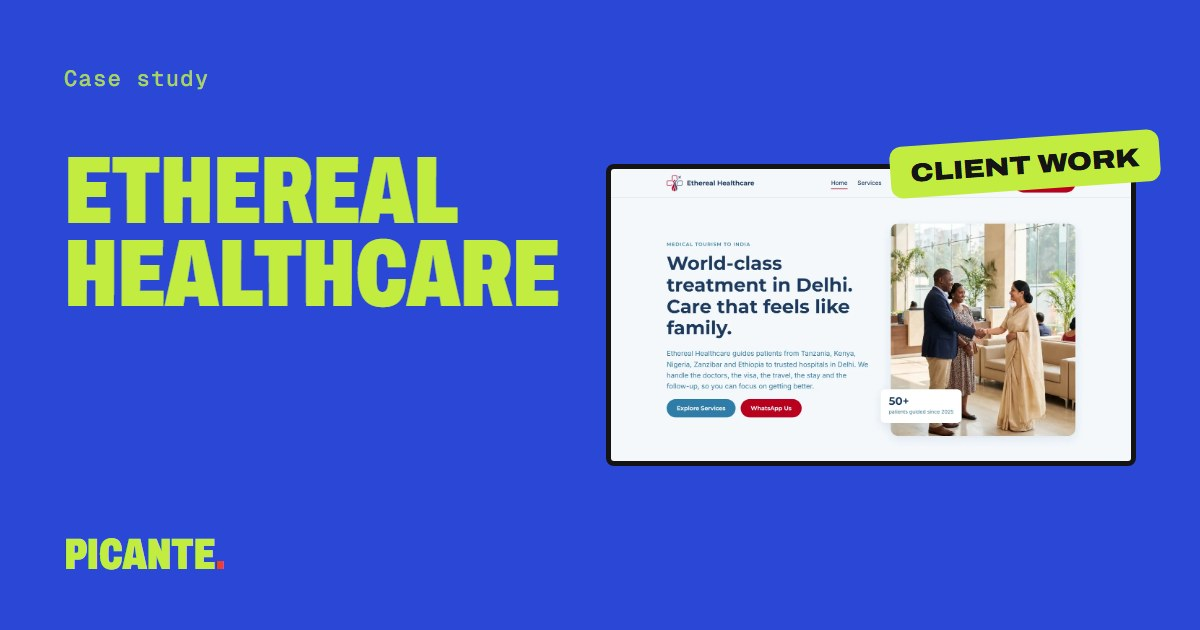
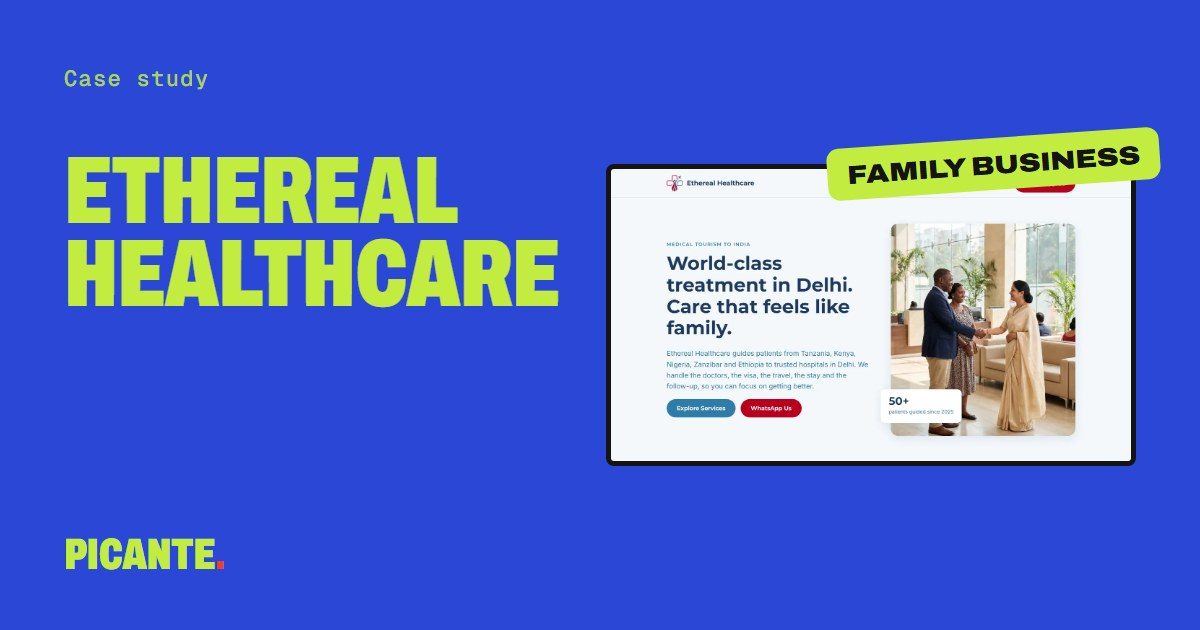
Ethereal Healthcare labelled as a family business, not client work

Changed region(s): [[0.6783, 0.181, 0.9867, 0.3317]]

diff --git a/work/ethereal-healthcare.html b/work/ethereal-healthcare.html
@@ -3,21 +3,21 @@
 <head>
 <meta charset="utf-8">
 <meta name="viewport" content="width=device-width, initial-scale=1">
-<title>Ethereal Healthcare case study: website designed, built and hosted | Picante Studio</title>
+<title>Ethereal Healthcare: website designed, built and hosted | Picante Studio</title>
 <meta name="description" content="How Picante Studio designed, built and hosted the Ethereal Healthcare website: a trust-first, mobile-first site for a Delhi NCR medical-travel company, built to earn one WhatsApp message.">
-<meta property="og:title" content="Ethereal Healthcare case study: website designed, built and hosted | Picante Studio">
+<meta property="og:title" content="Ethereal Healthcare: website designed, built and hosted | Picante Studio">
 <meta property="og:description" content="How Picante Studio designed, built and hosted the Ethereal Healthcare website: a trust-first, mobile-first site for a Delhi NCR medical-travel company, built to earn one WhatsApp message.">
 <meta property="og:type" content="website">
 <meta property="og:site_name" content="Picante Studio">
 <meta property="og:image" content="https://thepicantestudio.com/assets/img/cases/og_ethereal-healthcare.jpg">
 <meta property="og:url" content="https://thepicantestudio.com/work/ethereal-healthcare">
 <meta name="twitter:card" content="summary_large_image">
-<meta name="twitter:title" content="Ethereal Healthcare case study: website designed, built and hosted | Picante Studio">
+<meta name="twitter:title" content="Ethereal Healthcare: website designed, built and hosted | Picante Studio">
 <meta name="twitter:description" content="How Picante Studio designed, built and hosted the Ethereal Healthcare website: a trust-first, mobile-first site for a Delhi NCR medical-travel company, built to earn one WhatsApp message.">
 <meta name="twitter:image" content="https://thepicantestudio.com/assets/img/cases/og_ethereal-healthcare.jpg">
 <meta name="theme-color" content="#2A47D6">
 <link rel="canonical" href="https://thepicantestudio.com/work/ethereal-healthcare">
-<script type="application/ld+json">{"@context": "https://schema.org", "@graph": [{"@type": "BreadcrumbList", "itemListElement": [{"@type": "ListItem", "position": 1, "name": "Work", "item": "https://thepicantestudio.com/work"}, {"@type": "ListItem", "position": 2, "name": "Ethereal Healthcare", "item": "https://thepicantestudio.com/work/ethereal-healthcare"}]}, {"@type": "CreativeWork", "name": "Ethereal Healthcare", "headline": "Ethereal Healthcare case study: website designed, built and hosted | Picante Studio", "description": "How Picante Studio designed, built and hosted the Ethereal Healthcare website: a trust-first, mobile-first site for a Delhi NCR medical-travel company, built to earn one WhatsApp message.", "url": "https://thepicantestudio.com/work/ethereal-healthcare", "image": "https://thepicantestudio.com/assets/img/cases/og_ethereal-healthcare.jpg", "creator": {"@type": "Organization", "name": "Picante Studio", "url": "https://thepicantestudio.com/"}}]}</script>
+<script type="application/ld+json">{"@context": "https://schema.org", "@graph": [{"@type": "BreadcrumbList", "itemListElement": [{"@type": "ListItem", "position": 1, "name": "Work", "item": "https://thepicantestudio.com/work"}, {"@type": "ListItem", "position": 2, "name": "Ethereal Healthcare", "item": "https://thepicantestudio.com/work/ethereal-healthcare"}]}, {"@type": "CreativeWork", "name": "Ethereal Healthcare", "headline": "Ethereal Healthcare: website designed, built and hosted | Picante Studio", "description": "How Picante Studio designed, built and hosted the Ethereal Healthcare website: a trust-first, mobile-first site for a Delhi NCR medical-travel company, built to earn one WhatsApp message.", "url": "https://thepicantestudio.com/work/ethereal-healthcare", "image": "https://thepicantestudio.com/assets/img/cases/og_ethereal-healthcare.jpg", "creator": {"@type": "Organization", "name": "Picante Studio", "url": "https://thepicantestudio.com/"}}]}</script>
 <link rel="icon" href="/favicon.svg" type="image/svg+xml">
 <link rel="apple-touch-icon" href="/apple-touch-icon.png">
 <link rel="icon" type="image/png" sizes="512x512" href="/icon-512.png">
@@ -46,7 +46,7 @@
     <p class="mono crumbs"><a href="/work">Work</a> / Design / Ethereal Healthcare</p>
     <h1 class="display">Ethereal Healthcare</h1>
     <p class="case-line">A trust-first website for a medical-travel company, designed to turn a phone screen into a first WhatsApp message.</p>
-    <div class="case-tags"><span class="sticker sticker-lime">Client work</span></div>
+    <div class="case-tags"><span class="sticker sticker-lime">Family business</span></div>
   </div>
 </section>
 <section class="block block-ink case-film" data-ground="ink">
@@ -60,7 +60,7 @@
 <section class="block block-bone case-body" data-ground="bone">
   <div class="wrap">
     <dl class="facts facts-row">
-        <div><dt>Client</dt><dd>Ethereal Healthcare, Delhi NCR</dd></div>
+        <div><dt>For</dt><dd>Ethereal Healthcare, Delhi NCR, a family business</dd></div>
         <div><dt>Service</dt><dd>Design: website designed, built and hosted</dd></div>
         <div><dt>Delivered</dt><dd>Live multi-section site with a WhatsApp conversion path</dd></div>
         <div><dt>Live at</dt><dd><a href="https://www.etherealhealthcare.com/" target="_blank" rel="noopener">etherealhealthcare.com</a></dd></div>

diff --git a/work.html b/work.html
@@ -131,7 +131,7 @@
             <img src="assets/img/site_ethereal.webp" alt="Ethereal Healthcare homepage: a hero that reads World-class treatment in Delhi, with a WhatsApp call to action" width="1440" height="900" loading="lazy">
           </a>
           <h4>Ethereal Healthcare</h4>
-          <p>Patients decide from another continent, on a phone. So the whole site is built to earn one WhatsApp message.</p>
+          <p>Patients decide from another continent, on a phone. So the whole site is built to earn one WhatsApp message. Built for a family business.</p>
           <div class="textlink case-links"><a href="/work/ethereal-healthcare">Read the case study</a><a href="https://www.etherealhealthcare.com/" target="_blank" rel="noopener">Visit the site</a></div>
         </article>
       </div>
@@ -251,7 +251,7 @@
     <ul class="case-list">
       <li><a href="/work/qcstech"><span class="display">QCSTech</span><span class="mono">Client work, Create</span></a></li>
       <li><a href="/work/qed-vault"><span class="display">QED Vault</span><span class="mono">Client work, Create</span></a></li>
-      <li><a href="/work/ethereal-healthcare"><span class="display">Ethereal Healthcare</span><span class="mono">Client work, Design</span></a></li>
+      <li><a href="/work/ethereal-healthcare"><span class="display">Ethereal Healthcare</span><span class="mono">Family business, Design</span></a></li>
       <li><a href="/work/jimmys-cocktails"><span class="display">Jimmy's Cocktails</span><span class="mono">Concept, Create and Design</span></a></li>
       <li><a href="/work/misfits"><span class="display">Misfits</span><span class="mono">Concept, Create</span></a></li>
       <li><a href="/work/bangalore-watch-company"><span class="display">Bangalore Watch Company</span><span class="mono">Concept, Create</span></a></li>
